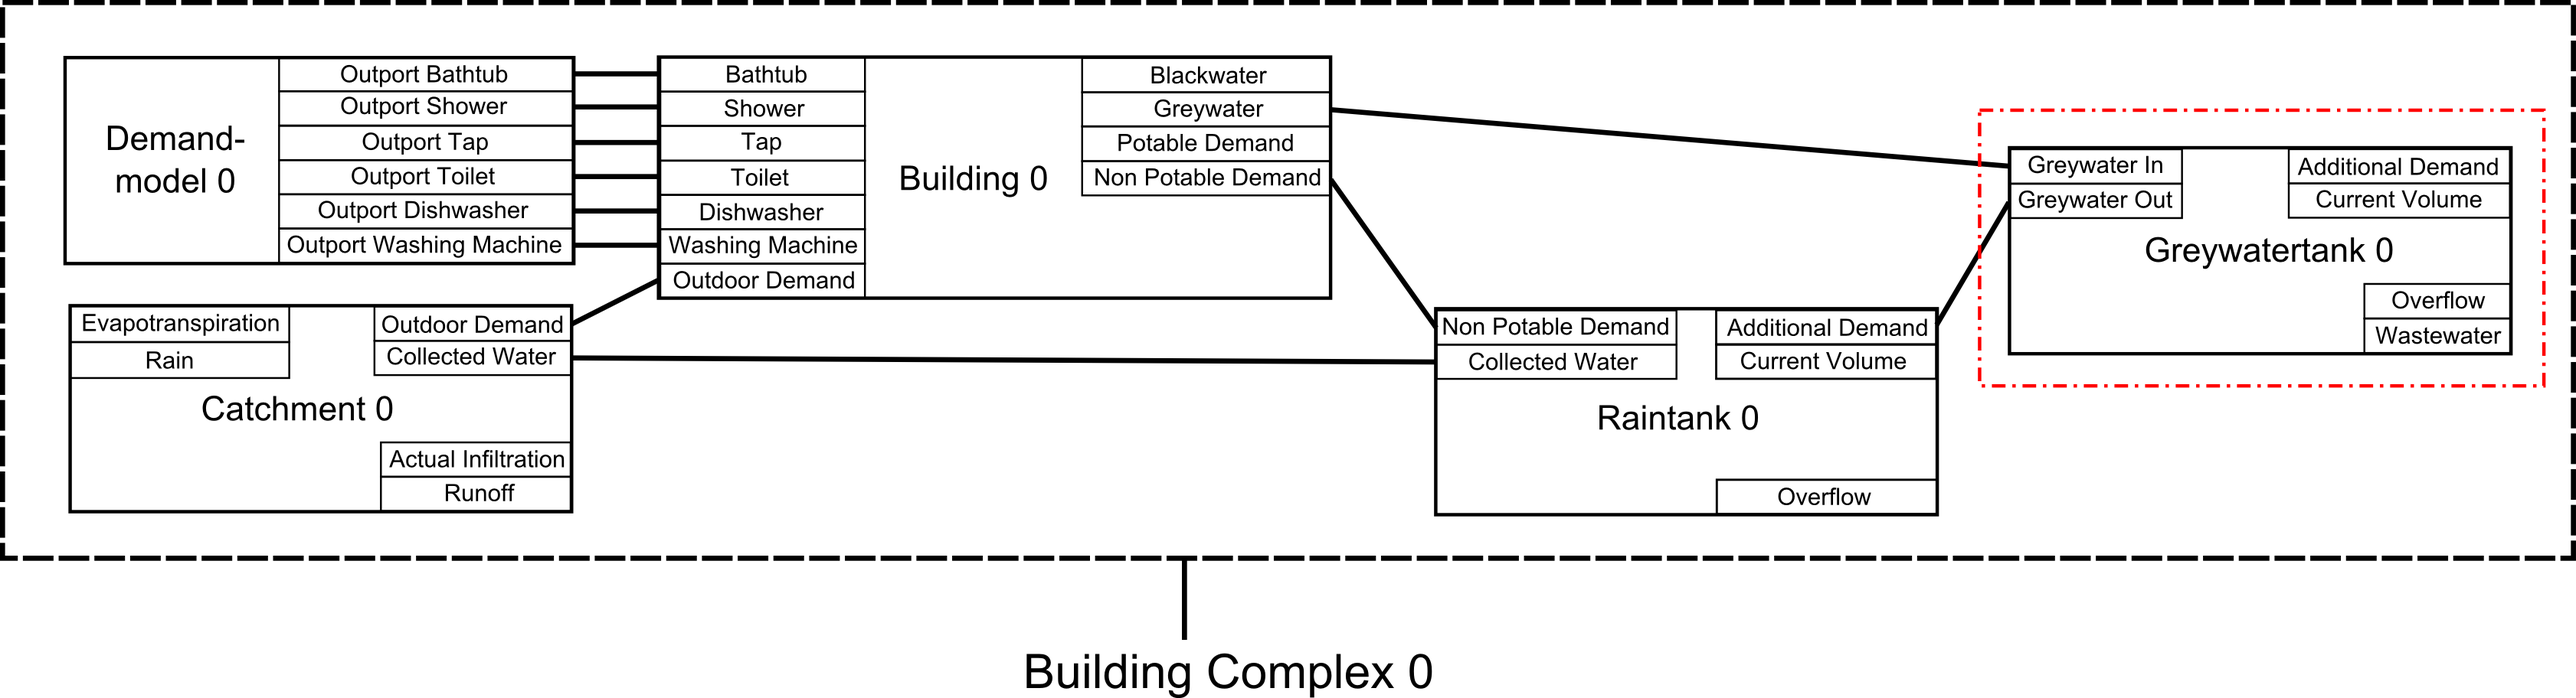
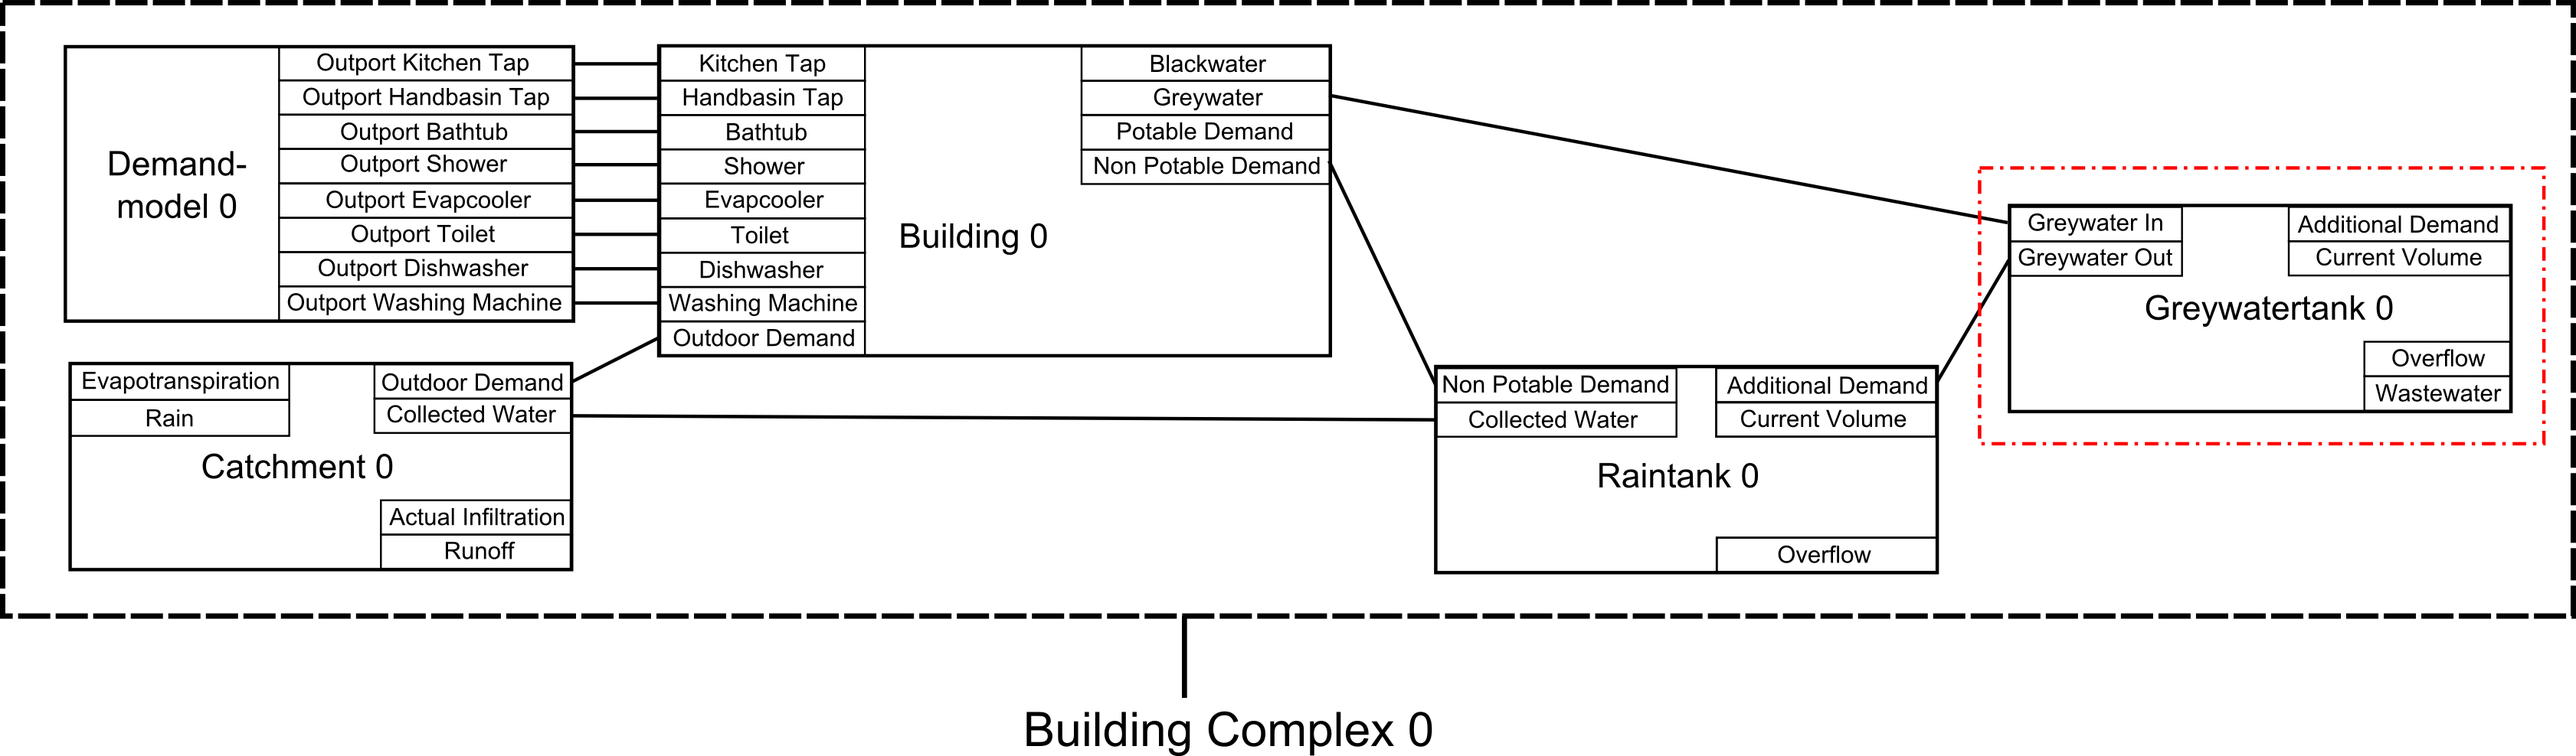
Update

diff --git a/doc/demandmodel.md b/doc/demandmodel.md
@@ -22,16 +22,20 @@ Basic features:
 | :------------ |:---------------:| :-----:|
 |    Outport Bathtub   | Time Series |  [l/h]
 | Outport Shower |   Time Series  |  [l/h]   |
-|   Outport Tap | Time Series |  [l/h]
+|   Outport Kitchen Tap | Time Series |  [l/h]|
+|   Outport Handbasin Tap | Time Series |  [l/h]|
 |    Outport Toilet  |    Time Series     |  [l/h]  |
 | Outport Dishwasher |   Time Series  |  [l/h]   |
+|   Outport Evapcooler | Time Series |  [l/h]|
 | Outport Washing Machine |   Time Series  |  [l/h]   |
-|    Outport Check Bathtub   | Time Series |  [l/h]
+|    Outport Check Bathtub   | Time Series |  [l/h] |
 | Outport Check Shower |   Time Series  |  [l/h]   |
-|   Outport Check Tap | Time Series |  [l/h]
+|   Outport Check Kitchen Tap | Time Series |  [l/h] |
+|   Outport Check Handbasin Tap | Time Series |  [l/h] |
 |    Outport Check Toilet  |    Time Series     |  [l/h]  |
 | Outport Check Dishwasher |   Time Series  |  [l/h]   |
 | Outport Check Washing Machine |   Time Series  |  [l/h]   |
+| Outport Check Evapcooler |   Time Series  |  [l/h]   |
 
 
 
@@ -40,8 +44,8 @@ Basic features:
 ## Description 
 
 The [stochastic demand model]() used produces, every time it is being run, diurnal demand - vectors, with a hourly time step, for each Unit in a building.
-The programmed City Drain 3 (CD3) addon block sums up all those vectors (for each use seperately), so that there's six vector for a building.
-(_bathtub vector, shower vector, tap vector, toilet vector, dishwasher vector, washing machine vector_)
+The programmed City Drain 3 (CD3) addon block sums up all those vectors (for each use seperately), so that there's eight vector for a building.
+(_bathtub vector, shower vector, kitchen tap vector, handbasin tap vector, evapcooler vector, toilet vector, dishwasher vector, washing machine vector_)
 The by the stochastic demand model produced added up vector have the following shape:
 
 demand model run n: 
@@ -72,7 +76,7 @@ Is the time step smaller than one hour a random event during that hour is being 
 
 ## Recommended Improvements
 
-- differentiate between tap use in kitchen and elsewhere.
+- fill up evapcooler use
 
 
 

diff --git a/doc/building.md b/doc/building.md
@@ -17,9 +17,11 @@ Basic features:
 | 	Bathtub | Time Series  |   [l/h] |
 | Shower      | Time Series | [l/h] |
 | 	Toilet | Time Series  |   [l/h] |
-| Tap      | Time Series | [l/h] |
+| Kitchen Tap      | Time Series | [l/h] |
+| Handbasin Tap      | Time Series | [l/h] |
 | 	Washing Machine | Time Series  |   [l/h] |
 | 	Dishwasher  | Time Series  |   [l/h] |
+| 	Evapcooler  | Time Series  |   [l/h] |
 
 # 
 
@@ -42,15 +44,15 @@ The individual stream are calculated by simple balances:
 
 |Output Parameter  | Calculation  | 
 | :------------ |:---------------:| 
-|    Potable Water    | Bathtub + Shower + Tap + Washing Machine + Dishwasher | 
+|    Potable Water    | Bathtub + Shower + Kitchen Tap + Handbasin Tap + Washing Machine + Dishwasher + Evapcooler | 
 |    Non Potable Water   |    Toilet + Outdoor Demand     | 
-|    Black Water   | Toilet |  
-|    Grey Water    |    Bathtub + Shower + Tap + Washing Machine + Dishwasher     | 
+|    Black Water   | Toilet + Kitchen Tap |  
+|    Grey Water    |    Bathtub + Handbasin Tap + Shower + Tap + Washing Machine + Dishwasher + Evapcooler    | 
 
 
 <br>
 
 ## Recommended Improvements
 
-- differ between kitchen tap and bathroom tap (at the moment all tap water = grey water)
-- take into account additional water losses for drinking and food preperation,...
+- enable water use selection for evap cooler as well as a factor that rules the input-output-ratio
+- take into account additional water losses for drinking, sweating, food preperation,...
